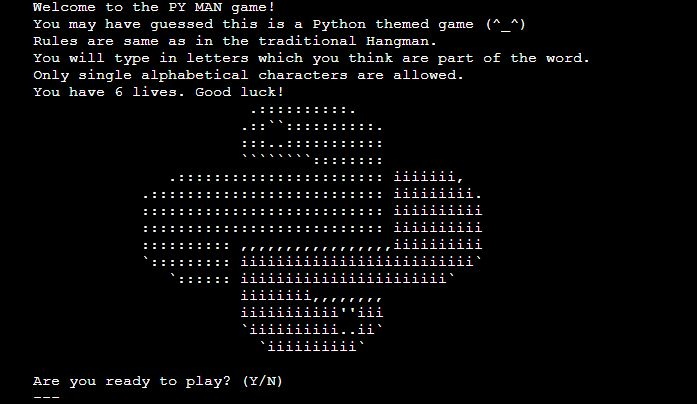
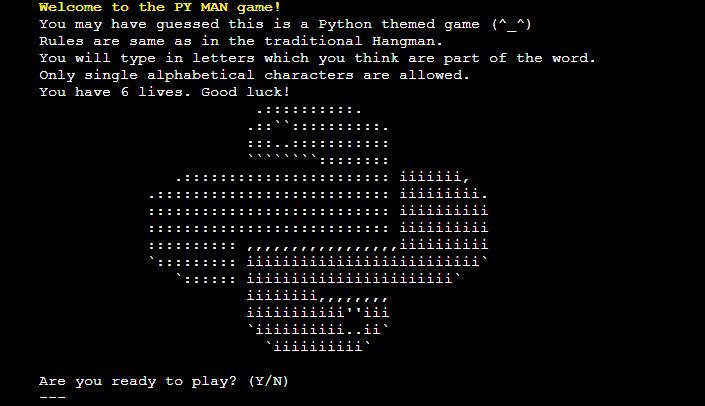
Add resized images to readme.md and remove text and a line in intro text

diff --git a/run.py b/run.py
@@ -13,27 +13,26 @@ class ColourText:
     correct & incorrect input
     """
     BOLD = '\033[1m'
-    WHITE = '\033[0m'
     GREEN = '\033[92m'
     RED = '\033[91m'
     YELLOW = '\033[93m'
+    WHITE = '\033[0m'
 
 
 # Intro text about the game and how to play.
 print(f"     {ColourText.BOLD}{ColourText.YELLOW}Welcome to the PY MAN game!"
       f"{ColourText.BOLD}{ColourText.WHITE}")
 print("     You may have guessed this is a Python themed game (^_^)")
-print("     Rules are same as in the traditional Hangman.")
+print("     Rules are same as in the traditional Hangman. You have 6 lives.")
 print("     You will type in letters which you think are part of the word.")
 print("     Only single alphabetical characters are allowed.")
-print("     You have 6 lives. Good luck!")
+print("     Good luck!")
 print("                             .::::::::::.")
 print("                            .::``::::::::::.")
 print("                            :::..:::::::::::")
 print("                            ````````::::::::")
 print("                    .::::::::::::::::::::::: iiiiiii,")
 print("                 .:::::::::::::::::::::::::: iiiiiiiii.")
-print("                 ::::::::::::::::::::::::::: iiiiiiiiii")
 print("                 ::::::::::::::::::::::::::: iiiiiiiiii")
 print("                 :::::::::: ,,,,,,,,,,,,,,,,,iiiiiiiiii")
 print("                 `::::::::: iiiiiiiiiiiiiiiiiiiiiiiiii`")
@@ -84,8 +83,8 @@ def play(first_play=True):
               f"{ColourText.YELLOW} Y for yes {ColourText.WHITE}"
               f" or type {ColourText.BOLD}{ColourText.YELLOW} "
               f"N for no{ColourText.WHITE}\n     ---\n")
-        user_choice = input("\n     Ready to play?"
-                            " (Y/N)\n     ---\n").upper()
+        user_choice = user_choice = input("\n     Are you ready to play?"
+                                          " (Y/N)\n     ---\n").upper()
         delete_last_line()
         print(f"     {user_choice}")
     else:
@@ -100,7 +99,8 @@ def play(first_play=True):
                 print('     NO')
                 print("\n     Too bad, maybe next time!\n")
                 raise SystemExit
-            else:   # if user puts any other character than Y or N,
+            else:
+                # if user puts any other character than Y or N,
                 # it will print 'Invalid Input' and it will
                 # reprint user choice command line.
                 print(f"\n     Invalid input - only type {ColourText.BOLD}"
@@ -221,7 +221,8 @@ def restart():
             print('     NO')
             print("\n     Thanks for playing, see you soon!\n")
             raise SystemExit
-        else:  # if user puts any other character than Y or N,
+        else:
+            # if user puts any other character than Y or N,
             # it will print 'Invalid Input' and it will
             # reprint user choice command line.
             print(f"\n     Invalid input - only type {ColourText.BOLD}"

diff --git a/README.md b/README.md
@@ -16,6 +16,8 @@ It is a simple command line application.
     - Command line asking user for input if they want to play
 ![Initial screen](assets/images/initial_screen.JPG)
 
+
+
 ## **FUTURE DEVELOPMENT**
 
 
